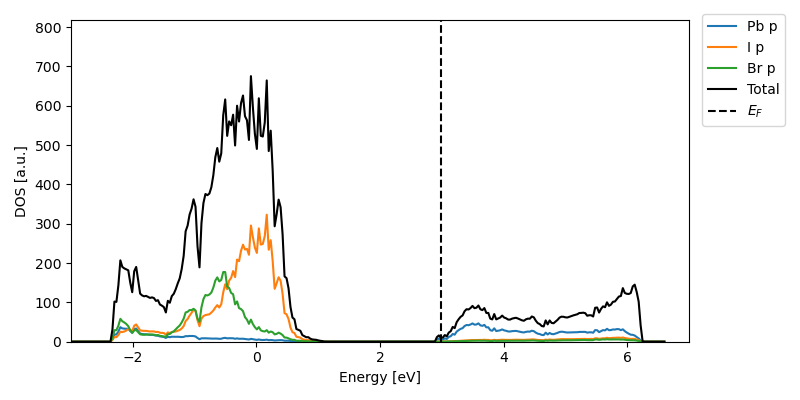
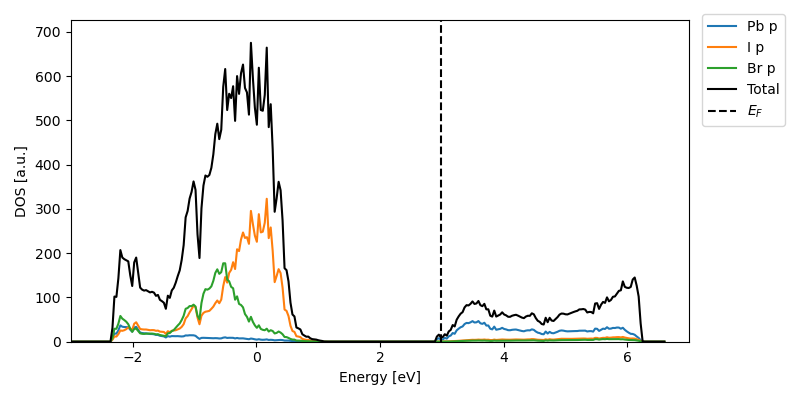
Changed plotting range

diff --git a/dos_test/dos_plot.py b/dos_test/dos_plot.py
@@ -8,25 +8,25 @@ import matplotlib.colors as mcol
 from collections.abc import Iterable
 
 pristine_pos = read("pristine_POSCAR")
-min1_pos = read("min1_POSCAR")
-min2_pos = read("min2_POSCAR")
-saddle_pos = read("saddle_POSCAR")
+im00_pos = read("min1_POSCAR")
 im01_pos = read("01_POSCAR")
+im02_pos = read("saddle_POSCAR")
 im03_pos = read("03_POSCAR")
+im04_pos = read("min2_POSCAR")
 #print(min1_pos.get_chemical_symbols())
 
-pristine_k5_dos = Doscar("pristine_k5_DOSCAR", ispin=1, lmax=2, lorbit=11, read_pdos=True, species=pristine_pos.get_chemical_symbols())
-pristine_k5b_dos = Doscar("pristine_k5b_DOSCAR", ispin=1, lmax=2, lorbit=11, read_pdos=True, species=pristine_pos.get_chemical_symbols())
-pristine_k5_lrealF_dos = Doscar("pristine_k5_lrealF_DOSCAR", ispin=1, lmax=2, lorbit=11, read_pdos=True, species=pristine_pos.get_chemical_symbols())
-pristine_k7_dos = Doscar("pristine_k7_DOSCAR", ispin=1, lmax=2, lorbit=11, read_pdos=True, species=pristine_pos.get_chemical_symbols())
+#pristine_k5_dos = Doscar("pristine_k5_DOSCAR", ispin=1, lmax=2, lorbit=11, read_pdos=True, species=pristine_pos.get_chemical_symbols())
+#pristine_k5b_dos = Doscar("pristine_k5b_DOSCAR", ispin=1, lmax=2, lorbit=11, read_pdos=True, species=pristine_pos.get_chemical_symbols())
+#pristine_k5_lrealF_dos = Doscar("pristine_k5_lrealF_DOSCAR", ispin=1, lmax=2, lorbit=11, read_pdos=True, species=pristine_pos.get_chemical_symbols())
+#pristine_k7_dos = Doscar("pristine_k7_DOSCAR", ispin=1, lmax=2, lorbit=11, read_pdos=True, species=pristine_pos.get_chemical_symbols())
 pristine_k7b_dos = Doscar("pristine_k7b_DOSCAR", ispin=1, lmax=2, lorbit=11, read_pdos=True, species=pristine_pos.get_chemical_symbols())
-min1_k5_dos = Doscar("min1_k5_DOSCAR", ispin=1, lmax=2, lorbit=11, read_pdos=True, species=min1_pos.get_chemical_symbols())
-min1_k7_dos = Doscar("min1_k7_DOSCAR", ispin=1, lmax=2, lorbit=11, read_pdos=True, species=min1_pos.get_chemical_symbols())
-min2_k7_dos = Doscar("min2_k7_DOSCAR", ispin=1, lmax=2, lorbit=11, read_pdos=True, species=min1_pos.get_chemical_symbols())
-saddle_k5_dos = Doscar("saddle_k5_DOSCAR", ispin=1, lmax=2, lorbit=11, read_pdos=True, species=saddle_pos.get_chemical_symbols())
-saddle_k7_dos = Doscar("saddle_k7_DOSCAR", ispin=1, lmax=2, lorbit=11, read_pdos=True, species=saddle_pos.get_chemical_symbols())
-im01_k7_dos = Doscar("01_k7_DOSCAR", ispin=1, lmax=2, lorbit=11, read_pdos=True, species=saddle_pos.get_chemical_symbols())
-im03_k7_dos = Doscar("03_k7_DOSCAR", ispin=1, lmax=2, lorbit=11, read_pdos=True, species=saddle_pos.get_chemical_symbols())
+#min1_k5_dos = Doscar("min1_k5_DOSCAR", ispin=1, lmax=2, lorbit=11, read_pdos=True, species=im00_pos.get_chemical_symbols())
+im00_k7_dos = Doscar("min1_k7_DOSCAR", ispin=1, lmax=2, lorbit=11, read_pdos=True, species=im00_pos.get_chemical_symbols())
+im04_k7_dos = Doscar("min2_k7_DOSCAR", ispin=1, lmax=2, lorbit=11, read_pdos=True, species=im04_pos.get_chemical_symbols())
+#saddle_k5_dos = Doscar("saddle_k5_DOSCAR", ispin=1, lmax=2, lorbit=11, read_pdos=True, species=im02_pos.get_chemical_symbols())
+im02_k7_dos = Doscar("saddle_k7_DOSCAR", ispin=1, lmax=2, lorbit=11, read_pdos=True, species=im02_pos.get_chemical_symbols())
+im01_k7_dos = Doscar("01_k7_DOSCAR", ispin=1, lmax=2, lorbit=11, read_pdos=True, species=im01_pos.get_chemical_symbols())
+im03_k7_dos = Doscar("03_k7_DOSCAR", ispin=1, lmax=2, lorbit=11, read_pdos=True, species=im03_pos.get_chemical_symbols())
 #print(min1_dos.species)
 #min1_dos.pdos_sum()
 
@@ -38,68 +38,69 @@ orb_list_EF = {'Pb': ['p'], 'I': ['p'], 'Br': ['p']}
 Erange_full = [-15,8]
 Erange_EF = [-3,7]
 Erange_half = [-7.5,7]
+ymax_EF = 660
 
 # need to cat colour lists together if >10 orbitals (tableau list size 10 I think)
 col = list(mcol.TABLEAU_COLORS) + list(mcol.TABLEAU_COLORS)
 #assert isinstance(colors, Iterable)
 #color_it = (c for c in colors)
 
-fig1, ax1 = plt.subplots(1, 1, figsize=(8.0, 4.0))
-pristine_k5_dos.plot_pdos(ax=ax1, colours=col, plot_total_dos=True, to_plot=orb_list_EF, xrange=Erange_EF)
-fig1.tight_layout()
-fig1.savefig("pristine_k5_pdos.png")
+#fig1, ax1 = plt.subplots(1, 1, figsize=(8.0, 4.0))
+#pristine_k5_dos.plot_pdos(ax=ax1, colours=col, plot_total_dos=True, to_plot=orb_list_EF, xrange=Erange_EF)
+#fig1.tight_layout()
+#fig1.savefig("pristine_k5_pdos.png")
 
-fig2, ax2 = plt.subplots(1, 1, figsize=(8.0, 4.0))
-pristine_k5b_dos.plot_pdos(ax=ax2, colours=col, plot_total_dos=True, to_plot=orb_list_EF, xrange=Erange_EF)
-fig2.tight_layout()
-fig2.savefig("pristine_k5b_pdos.png")
+#fig2, ax2 = plt.subplots(1, 1, figsize=(8.0, 4.0))
+#pristine_k5b_dos.plot_pdos(ax=ax2, colours=col, plot_total_dos=True, to_plot=orb_list_EF, xrange=Erange_EF)
+#fig2.tight_layout()
+#fig2.savefig("pristine_k5b_pdos.png")
 
-fig3, ax3 = plt.subplots(1, 1, figsize=(8.0, 4.0))
-pristine_k5_lrealF_dos.plot_pdos(ax=ax3, colours=col, plot_total_dos=True, to_plot=orb_list_EF, xrange=Erange_EF)
-fig3.tight_layout()
-fig3.savefig("pristine_k5_lrealF_pdos.png")
+#fig3, ax3 = plt.subplots(1, 1, figsize=(8.0, 4.0))
+#pristine_k5_lrealF_dos.plot_pdos(ax=ax3, colours=col, plot_total_dos=True, to_plot=orb_list_EF, xrange=Erange_EF)
+#fig3.tight_layout()
+#fig3.savefig("pristine_k5_lrealF_pdos.png")
 
-fig4, ax4 = plt.subplots(1, 1, figsize=(8.0, 4.0))
-pristine_k7_dos.plot_pdos(ax=ax4, colours=col, plot_total_dos=True, to_plot=orb_list_EF, xrange=Erange_EF)
-fig4.tight_layout()
-fig4.savefig("pristine_k7_pdos.png")
+#fig4, ax4 = plt.subplots(1, 1, figsize=(8.0, 4.0))
+#pristine_k7_dos.plot_pdos(ax=ax4, colours=col, plot_total_dos=True, to_plot=orb_list_EF, xrange=Erange_EF)
+#fig4.tight_layout()
+#fig4.savefig("pristine_k7_pdos.png")
 
 fig5, ax5 = plt.subplots(1, 1, figsize=(8.0, 4.0))
-pristine_k7b_dos.plot_pdos(ax=ax5, colours=col, plot_total_dos=True, to_plot=orb_list_EF, xrange=Erange_EF, ymax=670)
+pristine_k7b_dos.plot_pdos(ax=ax5, colours=col, plot_total_dos=True, to_plot=orb_list_EF, xrange=Erange_EF, ymax=ymax_EF)
 fig5.tight_layout()
 fig5.savefig("pristine_k7b_pdos.png")
 
-fig6, ax6 = plt.subplots(1, 1, figsize=(8.0, 4.0))
-min1_k5_dos.plot_pdos(ax=ax6, colours=col, plot_total_dos=True, to_plot=orb_list_EF, xrange=Erange_EF)
-fig6.tight_layout()
-fig6.savefig("min1_k5_pdos.png")
+#fig6, ax6 = plt.subplots(1, 1, figsize=(8.0, 4.0))
+#min1_k5_dos.plot_pdos(ax=ax6, colours=col, plot_total_dos=True, to_plot=orb_list_EF, xrange=Erange_EF)
+#fig6.tight_layout()
+#fig6.savefig("min1_k5_pdos.png")
 
 fig7, ax7 = plt.subplots(1, 1, figsize=(8.0, 4.0))
-min1_k7_dos.plot_pdos(ax=ax7, colours=col, plot_total_dos=True, to_plot=orb_list_EF, xrange=Erange_EF, ymax=670)
+im00_k7_dos.plot_pdos(ax=ax7, colours=col, plot_total_dos=True, to_plot=orb_list_EF, xrange=Erange_EF, ymax=ymax_EF)
 fig7.tight_layout()
 fig7.savefig("min1_k7_pdos.png")
 
 fig8, ax8 = plt.subplots(1, 1, figsize=(8.0, 4.0))
-min2_k7_dos.plot_pdos(ax=ax8, colours=col, plot_total_dos=True, to_plot=orb_list_EF, xrange=Erange_EF, ymax=670)
+im04_k7_dos.plot_pdos(ax=ax8, colours=col, plot_total_dos=True, to_plot=orb_list_EF, xrange=Erange_EF, ymax=ymax_EF)
 fig8.tight_layout()
 fig8.savefig("min2_k7_pdos.png")
 
-fig9, ax9 = plt.subplots(1, 1, figsize=(8.0, 4.0))
-saddle_k5_dos.plot_pdos(ax=ax9, colours=col, plot_total_dos=True, to_plot=orb_list_EF, xrange=Erange_EF)
-fig9.tight_layout()
-fig9.savefig("saddle_k5_pdos.png")
+#fig9, ax9 = plt.subplots(1, 1, figsize=(8.0, 4.0))
+#saddle_k5_dos.plot_pdos(ax=ax9, colours=col, plot_total_dos=True, to_plot=orb_list_EF, xrange=Erange_EF)
+#fig9.tight_layout()
+#fig9.savefig("saddle_k5_pdos.png")
 
 fig10, ax10 = plt.subplots(1, 1, figsize=(8.0, 4.0))
-saddle_k7_dos.plot_pdos(ax=ax10, colours=col, plot_total_dos=True, to_plot=orb_list_EF, xrange=Erange_EF)
+im02_k7_dos.plot_pdos(ax=ax10, colours=col, plot_total_dos=True, to_plot=orb_list_EF, xrange=Erange_EF, ymax=ymax_EF)
 fig10.tight_layout()
 fig10.savefig("saddle_k7_pdos.png")
 
 fig11, ax11 = plt.subplots(1, 1, figsize=(8.0, 4.0))
-im01_k7_dos.plot_pdos(ax=ax11, colours=col, plot_total_dos=True, to_plot=orb_list_EF, xrange=Erange_EF)
+im01_k7_dos.plot_pdos(ax=ax11, colours=col, plot_total_dos=True, to_plot=orb_list_EF, xrange=Erange_EF, ymax=ymax_EF)
 fig11.tight_layout()
 fig11.savefig("im01_k7_pdos.png")
 
 fig12, ax12 = plt.subplots(1, 1, figsize=(8.0, 4.0))
-im03_k7_dos.plot_pdos(ax=ax12, colours=col, plot_total_dos=True, to_plot=orb_list_EF, xrange=Erange_EF)
+im03_k7_dos.plot_pdos(ax=ax12, colours=col, plot_total_dos=True, to_plot=orb_list_EF, xrange=Erange_EF, ymax=ymax_EF)
 fig12.tight_layout()
 fig12.savefig("im03_k7_pdos.png")
